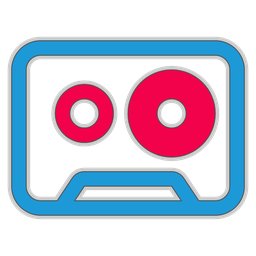
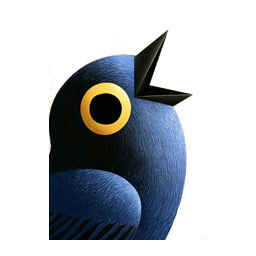
Update files

diff --git a/index.html b/index.html
@@ -3,7 +3,7 @@
 <head>
 <meta charset="utf-8">
 <meta name="viewport" content="width=device-width, initial-scale=1, viewport-fit=cover">
-<title>دەنگ</title>
+<title>جریوە</title>
 <meta name="theme-color" content="#ffffff">
 <link rel="icon" type="image/png" href="icons/icon.png">
 <link rel="manifest" href="manifest.webmanifest">
@@ -23,7 +23,7 @@ svg{width:1em;height:1em;fill:none;stroke:currentColor;stroke-width:2;stroke-lin
 .app{width:100%;height:100%;background:var(--main);display:grid;grid-template-columns:230px 1fr;grid-template-rows:1fr 84px;overflow:hidden}
 aside{grid-row:1;background:var(--side);padding:22px 18px;overflow:auto}
 .logo{display:flex;align-items:center;gap:12px;font-size:20px;font-weight:700;margin-bottom:26px}
-.logo img{width:36px;height:36px;display:block}
+
 nav button{width:100%;justify-content:flex-start;gap:10px;padding:7px 12px;border:2px solid transparent;border-radius:8px;font-size:14px;margin-bottom:6px;color:var(--mute);transition:background .2s,border-color .2s,color .2s}
 nav button:hover{background:var(--hover)}
 nav button[aria-current=page]{background:var(--chip);color:var(--ink);font-weight:500}
@@ -84,7 +84,7 @@ aside{grid-row:1;padding:10px 12px;display:flex;align-items:center;gap:6px;overf
 nav{display:flex;gap:4px}nav h3{display:none}nav button{width:auto;white-space:nowrap;margin:0;padding:6px 10px}
 main{grid-row:2;padding:16px}
 footer{grid-row:3;grid-template-columns:1fr;gap:4px;padding:8px 16px}.vol{display:none}
-.np .cover{display:none}.strip{display:none}
+.cw{display:none}.strip{display:none}
 .items.list .ar,.items.compact .ar{display:none}.items.list{--c:44px 1fr 50px 30px}.items.compact{--c:1fr 50px 30px}.items.selm.list{--c:26px 44px 1fr 50px 30px}.items.selm.compact{--c:26px 1fr 50px 30px}
 }
 
@@ -107,13 +107,23 @@ footer{grid-row:3;grid-template-columns:1fr;gap:4px;padding:8px 16px}.vol{displa
 dialog{border:0;border-radius:14px;background:var(--main);color:var(--ink);padding:22px;max-width:340px;font-family:inherit}dialog::backdrop{background:#0006}
 dialog p{margin:0 0 18px;line-height:1.8}dialog form{display:flex;gap:8px;flex-wrap:wrap}dialog button{padding:8px 18px;border-radius:16px;background:var(--chip)}dialog button[value=y]{background:var(--ink);color:var(--main)}
 .about{max-width:460px;margin:10px auto;text-align:center}.about img{display:block;margin:0 auto 8px}.about h1{margin:0 0 6px;font-size:26px}.about p{color:var(--mute);margin:0 0 20px;line-height:1.9}.ab{display:flex;justify-content:space-between;gap:12px;padding:13px 4px;border-bottom:1px solid var(--line);font-size:14px;text-align:start}.ab span{color:var(--mute)}.ab a{color:var(--ink);text-underline-offset:3px}
-@media(prefers-reduced-motion:reduce){*{transition:none!important}}
+main,aside{scrollbar-width:none}main::-webkit-scrollbar,aside::-webkit-scrollbar{display:none}
+.logo img,.about img{object-fit:contain;background:linear-gradient(135deg,#ffffffb0,#ffffff30);backdrop-filter:blur(10px);-webkit-backdrop-filter:blur(10px);border:1px solid #ffffff90;box-shadow:0 4px 14px #0002,inset 0 1px 0 #fff9}
+.logo img{width:42px;height:42px;padding:5px;border-radius:13px}.about img{width:120px;height:120px;padding:12px;border-radius:30px}
+.cw{position:relative;flex:none}.np .cover{width:60px;height:60px}
+.cw.pl .cover{animation:pulse 2.4s ease-in-out infinite}
+.eq{position:absolute;inset-inline-end:4px;bottom:4px;display:none;gap:2px;align-items:flex-end;height:18px;padding:3px;border-radius:5px;background:#0007;font-style:normal}
+.cw.pl .eq{display:flex}.eq s{display:block;width:3px;height:20%;background:#fff;border-radius:1px;animation:eq .9s ease-in-out infinite}
+.eq s:nth-child(2){animation-delay:.25s}.eq s:nth-child(3){animation-delay:.5s}
+@keyframes eq{0%,100%{height:20%}50%{height:100%}}
+@keyframes pulse{0%,100%{transform:scale(1);box-shadow:0 0 0 0 #4a6fd055}50%{transform:scale(1.06);box-shadow:0 0 0 8px #4a6fd000}}
+@media(prefers-reduced-motion:reduce){*{transition:none!important}.cw.pl .cover,.eq s{animation:none!important}}
 </style>
 </head>
 <body>
 <div class="app">
   <aside>
-    <div class="logo"><img src="icons/icon.png" alt="" width="36" height="36"><span>دەنگ</span></div>
+    <div class="logo"><img src="icons/icon.png" alt="" width="36" height="36"><span>جریوە</span></div>
     <nav id="nav"></nav>
   </aside>
   <main>
@@ -127,7 +137,7 @@ dialog p{margin:0 0 18px;line-height:1.8}dialog form{display:flex;gap:8px;flex-w
     <div id="view"></div>
   </main>
   <footer>
-    <div class="np"><div class="cover" id="npc">♪</div><div style="min-width:0"><b id="npt">هیچ گۆرانییەک نییە</b><small id="npa"></small></div><button class="ib" id="like" aria-label="دڵخواز"></button><button class="ib" id="del" aria-label="سڕینەوە"></button></div>
+    <div class="np"><div class="cw" id="cw"><div class="cover" id="npc">♪</div><i class="eq"><s></s><s></s><s></s></i></div><div style="min-width:0"><b id="npt">هیچ گۆرانییەک نییە</b><small id="npa"></small></div><button class="ib" id="like" aria-label="دڵخواز"></button><button class="ib" id="del" aria-label="سڕینەوە"></button></div>
     <div class="ctl">
       <div class="btns">
         <button id="shuf" aria-label="تێکەڵ"><svg viewBox="0 0 24 24"><path d="M16 3h5v5M4 20 21 3M21 16v5h-5M15 15l6 6M4 4l5 5"/></svg></button>
@@ -191,7 +201,7 @@ const hd=t=>`<div class="hd"><h2>${esc(t)}</h2>${tools()}</div>`;
 function settingsHtml(){
  const seg=(arr,c,k)=>`<div class="seg">${arr.map(([v,l])=>`<button aria-pressed="${c===v}" data-s="${k}" data-v="${v}">${l}</button>`).join('')}</div>`;
  return `<h2>${L('settings')}</h2><div class="set"><h3>${L('language')}</h3>${seg([['ckb','کوردی سۆرانی'],['fa','فارسی'],['en','English']],lang,'lang')}<h3>${L('theme')}</h3>${seg([['auto',L('tAuto')],['light',L('tLight')],['dark',L('tDark')]],LS.get('deng-theme')||'auto','theme')}<h3>${L('defView')}</h3>${seg(VM.map(v=>[v,L('v_'+v)]),vm,'vm')}</div>`}
-const aboutHtml=()=>`<div class="about"><img src="icons/icon.png" alt="" width="120" height="120"><h1>دەنگ</h1><p>${L('aboutDesc')}</p>
+const aboutHtml=()=>`<div class="about"><img src="icons/icon.png" alt="" width="120" height="120"><h1>جریوە</h1><p>${L('aboutDesc')}</p>
 <div class="ab"><span>${L('version')}</span><b dir="ltr">1.0</b></div>
 <div class="ab"><span>${L('license')}</span><b>${L('licenseV')}</b></div>
 <div class="ab"><span>${L('designedBy')}</span><b>${L('kl')}</b></div>
@@ -204,8 +214,7 @@ function render(){
  if(n==='settings'&&!q)h=settingsHtml();
  else if(n==='about'&&!q)h=aboutHtml();
  else if(n==='home'&&!q){
-  const t=T[cur]||T[0];
-  h=T.length?`<div class="hero"><div class="cover" style="${art(t)}">${t.cu?'':'♪'}</div><div><h1>${esc(t.title)}</h1><p>${esc(nm(t.artist))}</p></div><div class="strip">${T.slice(0,4).map(x=>`<button class="cover" data-id="${x.id}" style="${art(x)}" aria-label="${esc(x.title)}">${x.cu?'':'♪'}</button>`).join('')}</div></div>${hd(L('mine'))}${listHtml(T)}`:emptyHtml();
+  h=T.length?`${hd(L('mine'))}${listHtml(T)}`:emptyHtml();
  }else if(n==='artists'&&!q)h=T.length?groupsHtml(groupBy(t=>nm(t.artist)),'a'):emptyHtml();
  else if(n==='lists'&&!q)h=T.length?groupsHtml(groupBy(t=>ln(t.list)),'l'):emptyHtml();
  else{
@@ -319,7 +328,7 @@ $('#next').onclick=next;$('#prev').onclick=prev;
 $('#play').onclick=()=>{if(cur<0)return $('#addBtn').click();au.paused?au.play():au.pause()};
 $('#shuf').onclick=e=>{shuf=!shuf;e.currentTarget.classList.toggle('on',shuf)};
 $('#rep').onclick=e=>{rep=(rep+1)%3;e.currentTarget.classList.toggle('on',rep>0);au.loop=rep===2;toast(L('rep'+rep))};
-au.onplay=()=>$('#play').innerHTML=ic('pause');au.onpause=()=>$('#play').innerHTML=ic('play');$('#play').innerHTML=ic('play');
+au.onplay=()=>{$('#play').innerHTML=ic('pause');$('#cw').classList.add('pl')};au.onpause=()=>{$('#play').innerHTML=ic('play');$('#cw').classList.remove('pl')};$('#play').innerHTML=ic('play');
 au.onended=()=>{if(rep===0&&queue.indexOf(T[cur].id)===queue.length-1)return;next()};
 const setP=(el,v)=>el.style.setProperty('--p',v+'%');
 au.ontimeupdate=()=>{if(!au.duration)return;const v=au.currentTime/au.duration*1000;$('#seek').value=v;setP($('#seek'),v/10);$('#cur').textContent=fmt(au.currentTime)};

diff --git a/sw.js b/sw.js
@@ -1,4 +1,4 @@
-const CACHE = 'deng-v4';
+const CACHE = 'deng-v5';
 const SHELL = ['./', 'index.html', 'manifest.webmanifest', 'icons/icon.png', 'icons/icon-192.png', 'icons/icon-512.png'];
 
 self.addEventListener('install', e => {

diff --git a/README.md b/README.md
@@ -1,10 +1,10 @@
 <div dir="rtl" align="right">
 
 <p align="center">
-  <img src="icons/icon-192.png" alt="دەنگ" width="120">
+  <img src="icons/icon-192.png" alt="جریوە" width="120">
 </p>
 
-<h1 align="center">دەنگ</h1>
+<h1 align="center">جریوە</h1>
 
 <p align="center">
   موزیک پلەیەرێکی ئاسان و سووک بە شێوەی PWA، بە زمانی کوردی سۆرانی
@@ -14,13 +14,14 @@
 
 ## دەربارەی پرۆژەکە
 
-**دەنگ** موزیک پلەیەرێکە کە ڕاستەوخۆ لە براوزەر کار دەکات و پێویستی بە سێرڤەر نییە. فایلە دەنگییەکانی ئامێرەکەت زیاد دەکەیت و لێیان دەدەیت. ڕووکارەکەی ڕاستەوخۆ بە کوردی سۆرانییە (RTL)، و وەک ئەپێکی ئاسایی لەسەر مۆبایل و کۆمپیوتەر دادەمەزرێت.
+**جریوە** موزیک پلەیەرێکە کە ڕاستەوخۆ لە براوزەر کار دەکات و پێویستی بە سێرڤەر نییە. فایلە دەنگییەکانی ئامێرەکەت زیاد دەکەیت و لێیان دەدەیت. ڕووکارەکەی ڕاستەوخۆ بە کوردی سۆرانییە (RTL)، و وەک ئەپێکی ئاسایی لەسەر مۆبایل و کۆمپیوتەر دادەمەزرێت.
 
 هیچ فایلێکی دەنگی بۆ هیچ سێرڤەرێک نانێردرێت. هەموو شتێک لەناو براوزەری خۆتدا دەمێنێتەوە.
 
 ## تایبەتمەندییەکان
 
 - ڕووکاری سادە و پاک، بە ڕووناک و تاریک (بە شێوەی خۆکار دەگۆڕێت یان بە دوگمە)
+- ئەنیمەیشنی ڕووپۆشی گۆرانی لە کاتی لێداندا، و لیستی بێ scrollbar
 - گواستنەوەی نەرم لەنێوان بەشەکان (سەرەکی، گەڕان، هونەرمەندان، لیستەکان، دڵخوازەکان، نوێترین)
 - زیادکردنی فایل بە دوگمە یان ڕاکێشان (drag & drop)
 - پشتگیری لە زۆربەی فۆرماتە دەنگییەکان، لەگەڵ **ffmpeg.wasm** وەک یەدەگ
